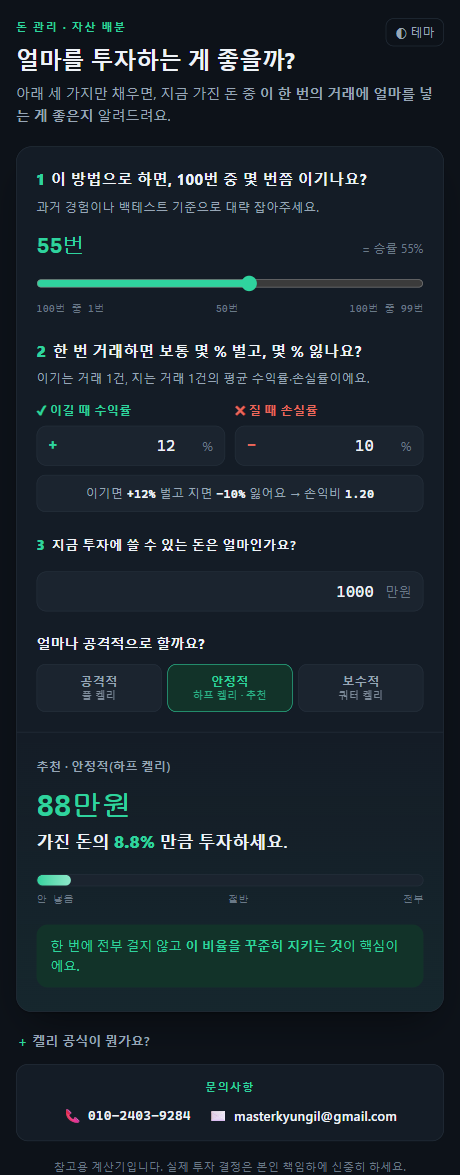
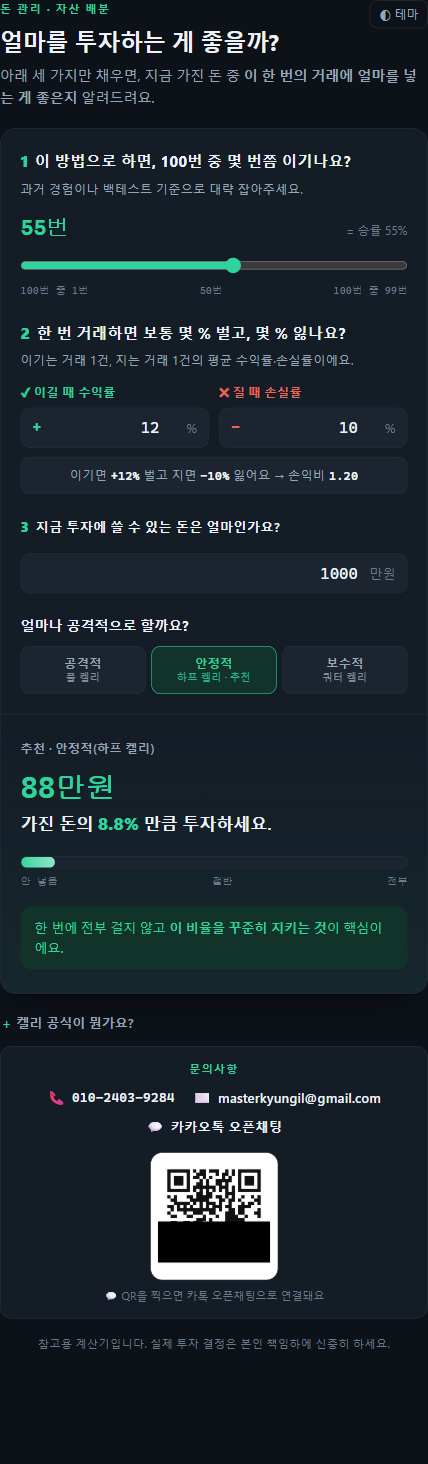
계산기 페이지에 카카오 오픈채팅 QR 삽입 + README 개선
- 페이지 문의사항에 QR코드(data URI) 추가 — 아티팩트/Pages 양쪽 표시
- README 미리보기 스크린샷 2장을 동일 크기로 재촬영(QR 포함)
- "다른 사람이 코드를 못 바꾼다" 안내 섹션 추가

Claude-Session: https://claude.ai/code/session_01FZm6cmTTPNX4JYYx43aVqA

diff --git a/index.html b/index.html
@@ -157,6 +157,9 @@
   .contact a:hover { color: var(--accent); }
   .contact a .ic { font-size: 14px; }
   .contact a .num { font-family: var(--mono); font-variant-numeric: tabular-nums; }
+  .contact .c-qr { margin-top: 14px; display: flex; flex-direction: column; align-items: center; gap: 7px; }
+  .contact .c-qr img { width: 128px; height: 128px; display: block; background: #fff; padding: 7px; border-radius: 12px; border: 1px solid var(--line); }
+  .contact .c-qr-cap { font-size: 11px; color: var(--faint); margin: 0; }
 </style>
 
 <div class="wrap">
@@ -248,6 +251,12 @@
       <a href="tel:+821024039284"><span class="ic">📞</span><span class="num">010-2403-9284</span></a>
       <a href="mailto:masterkyungil@gmail.com"><span class="ic">✉</span>masterkyungil@gmail.com</a>
       <a href="https://open.kakao.com/o/sUVx4Oli" target="_blank" rel="noopener"><span class="ic">💬</span>카카오톡 오픈채팅</a>
+    </div>
+    <div class="c-qr">
+      <a href="https://open.kakao.com/o/sUVx4Oli" target="_blank" rel="noopener" aria-label="카카오톡 오픈채팅 QR코드">
[1 lines of base64/hex data omitted]
+      </a>
+      <p class="c-qr-cap">💬 QR을 찍으면 카톡 오픈채팅으로 연결돼요</p>
     </div>
   </div>
 

diff --git a/README.md b/README.md
@@ -105,13 +105,19 @@ $$f = \frac{p \times b - q}{b}$$
 - 모든 계산은 **브라우저 안에서** 처리되며, 입력한 정보는 어디에도 저장·전송되지 않습니다
 - GitHub Pages로 무료 호스팅
 
-## 📂 직접 수정·실행하기
+## 🔒 다른 사람이 내 코드를 바꿀 수 있나요? — 아니요
 
-```bash
-git clone https://github.com/GODK92/kelly-calculator.git
-```
+**안심하세요. 이 저장소의 코드를 수정할 수 있는 사람은 저장소 주인(그리고 주인이 초대한 사람)뿐입니다.**
 
-`index.html` 파일을 브라우저로 열기만 하면 바로 실행됩니다. 내용을 고친 뒤 아래로 반영할 수 있어요:
+- 공개(public) 저장소는 누구나 **볼 수 있을 뿐**, 함부로 고칠 수 없습니다. `git push`로 내용을 바꾸는 건 **권한 있는 사람만** 가능해요.
+- 다른 사람이 코드를 가져가는 방법은 **포크(fork)** 또는 **클론(clone)** 인데, 이건 *자기 계정으로 복사본을 만드는 것* 이라 **원본에는 아무 영향이 없습니다.**
+- 누군가 수정 제안을 하려면 **풀 리퀘스트(Pull Request)** 를 보내야 하고, 그건 **주인이 승인해야만** 반영됩니다. 승인 안 하면 그대로예요.
+
+> 즉, 링크를 아무리 널리 공유해도 **남이 이 페이지나 코드를 이상하게 바꿔놓을 수 없습니다.** 방문자는 계산기를 사용만 할 수 있어요.
+
+## 📂 (주인용) 직접 수정·실행하기
+
+내 컴퓨터에 이미 있는 `kelly-site` 폴더에서 `index.html`을 고친 뒤:
 
 ```bash
 git add .
@@ -119,7 +125,7 @@ git commit -m "내용 수정"
 git push
 ```
 
-푸시하면 몇 분 뒤 사이트에 자동 반영됩니다.
+푸시하면 몇 분 뒤 사이트에 자동 반영됩니다. (`index.html`은 브라우저로 그냥 열어도 바로 실행돼요.)
 
 ---
 
